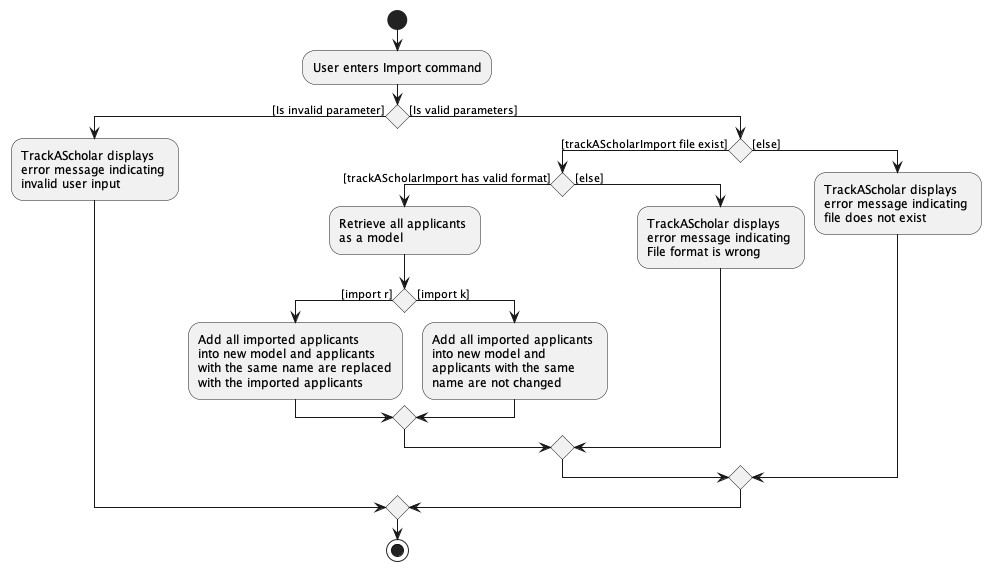
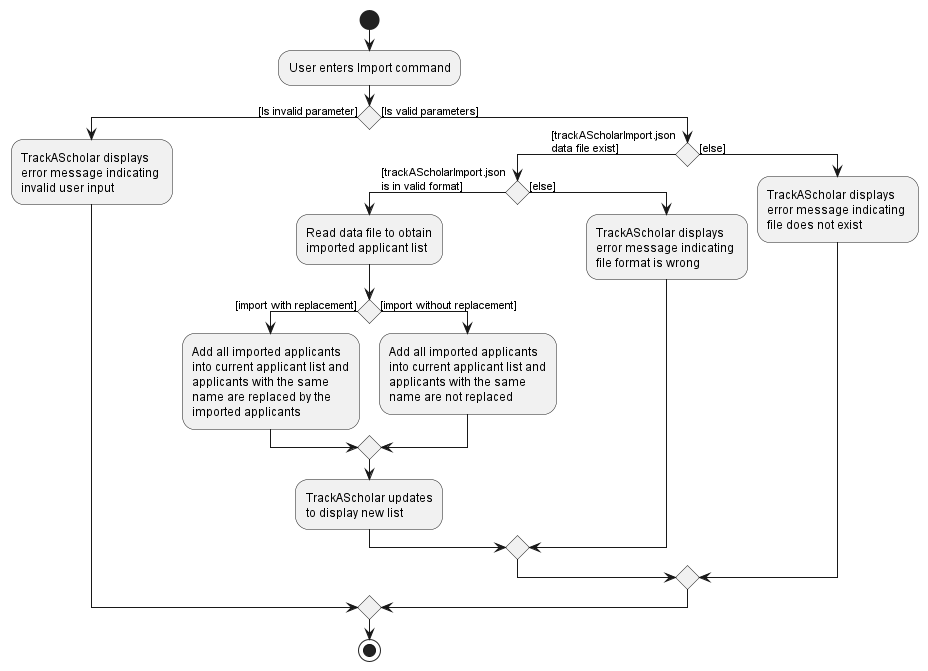
Update import feature implementation in Developer Guide

Changed region(s): [[0.0, 0.0, 1.0, 0.8932], [0.0938, 0.8634, 0.7188, 1.0]]

diff --git a/docs/DeveloperGuide.md b/docs/DeveloperGuide.md
@@ -367,7 +367,7 @@ The following sequence diagram shows how the remove operation works:
 ![Interactions Inside the Logic Component for the `remove` Command example](images/RemoveSequenceDiagram.png)
 
 <div markdown="span" class="alert alert-info">:information_source: **Note:** The _GUI_ interactions when `RemoveCommand#execute()` calls `RemoveCommand#promptUserConfirmation()`
-is abstracted out as this sequence diagram aims only to demonstrate the interactions inside Logic Component for the `remove` command.
+is abstracted out as this sequence diagram aims to only demonstrate the interactions inside Logic Component for the `remove` command.
 
 </div>
 
@@ -521,12 +521,14 @@ in the Activity Diagram but due to limitation of PlantUML, the arrowhead converg
 
 **Implementation**
 
-The import operation is facilitated by `ImportCommandParser`. `ImportComamndParser` will create an
-`ImportCommand` if the input prefix is `r` or `k`.
+The import operation is facilitated by `ImportCommand`. `ImportCommand` extends `Command` and implements the `Command#execute` operation.
+Data file must be stored in proper _Json_ format and named `trackAScholarImport.json` under the `./data` folder for the file to be properly read
+when executing the `ImportCommand`.
 
-`ImportCommand` extends `Command` and implements the `Command#execute` operation.
-
-[//]: # (Do I need to write how how importCommand executes the program?)
+<div markdown="span" class="alert alert-info">:information_source: **Note:** The interactions with the `Storage` component when reading
+the import data file `trackAScholarImport.json` is abstracted out as this implementation aims to only demonstrate the interactions inside
+Logic Component for the `import` command.
+</div>
 
 Given below is an example usage scenario and how the import operation is handled by TrackAScholar:
 
@@ -536,17 +538,16 @@ Given below is an example usage scenario and how the import operation is handled
 
 2. `TrackAScholarParser` identifies the `import` command and `ImportCommandParser` will be instantiated which calls `ImportCommandParser#parse()`
 
-3. `ImportCommandParser#parse()` checks if the argument correspond to `r` or `k` and initializes and returns an `ImportCommand` with the argument `str`.
+3. `ImportCommandParser#parse()` now initializes and returns an `ImportCommand` with the argument `r`.
 
-4. `LogicManager#execute()` now calls `ImportCommand#execute()`, which creates a new `JsonTrackAScholarStorage` object with the file path at ./data/trackAScholarImport.json.
-   `JsonTrackAScholarStorage#readTrackAScholar()` is then called to check if `trackAScholarImport.json` is present and calls `JsonUtil#readJsonFile()`.
-   This returns `Optional<ReadOnlyTrackAScholar>` and `Optional#get()` is called to get the `ReadOnlyTrackAScholar` object.
-   `ReadOnlyTrackAScholar#getApplicantList()` is called to obtain the `ObservableList<Applicant>` object.
+4. `LogicManager#execute()` now calls `ImportCommand#execute()`, which reads the data file `trackAScholarImport.json` to obtain the
+   imported applicant list.
 
-5. `ImportCommand#execute()` then checks if `str` in `ImportCommand` is `r`, `Model#importWithReplace()` to add the applicants within the 
-   `ObservableList<Applicant>` object into the current model, replacing applicants with the same name. 
+5. The argument `r` is then read and understood, which `LogicManager#execute()` now invokes `Model#importWithReplace()` to add
+   the applicants within the imported applicant list into the current `Model`. Duplicate applicants who have the
+   same name are now updated with imported applicants and new imported applicants are added into the current applicant list. 
 
-6. `ImportCommand#execute()` finishes with returning a `CommandResult` with a successful import message.
+6. `ImportCommand#execute()` finishes with returning a `CommandResult` containing information of a successful import.
 
 The following sequence diagram shows how the import operation works:
 
